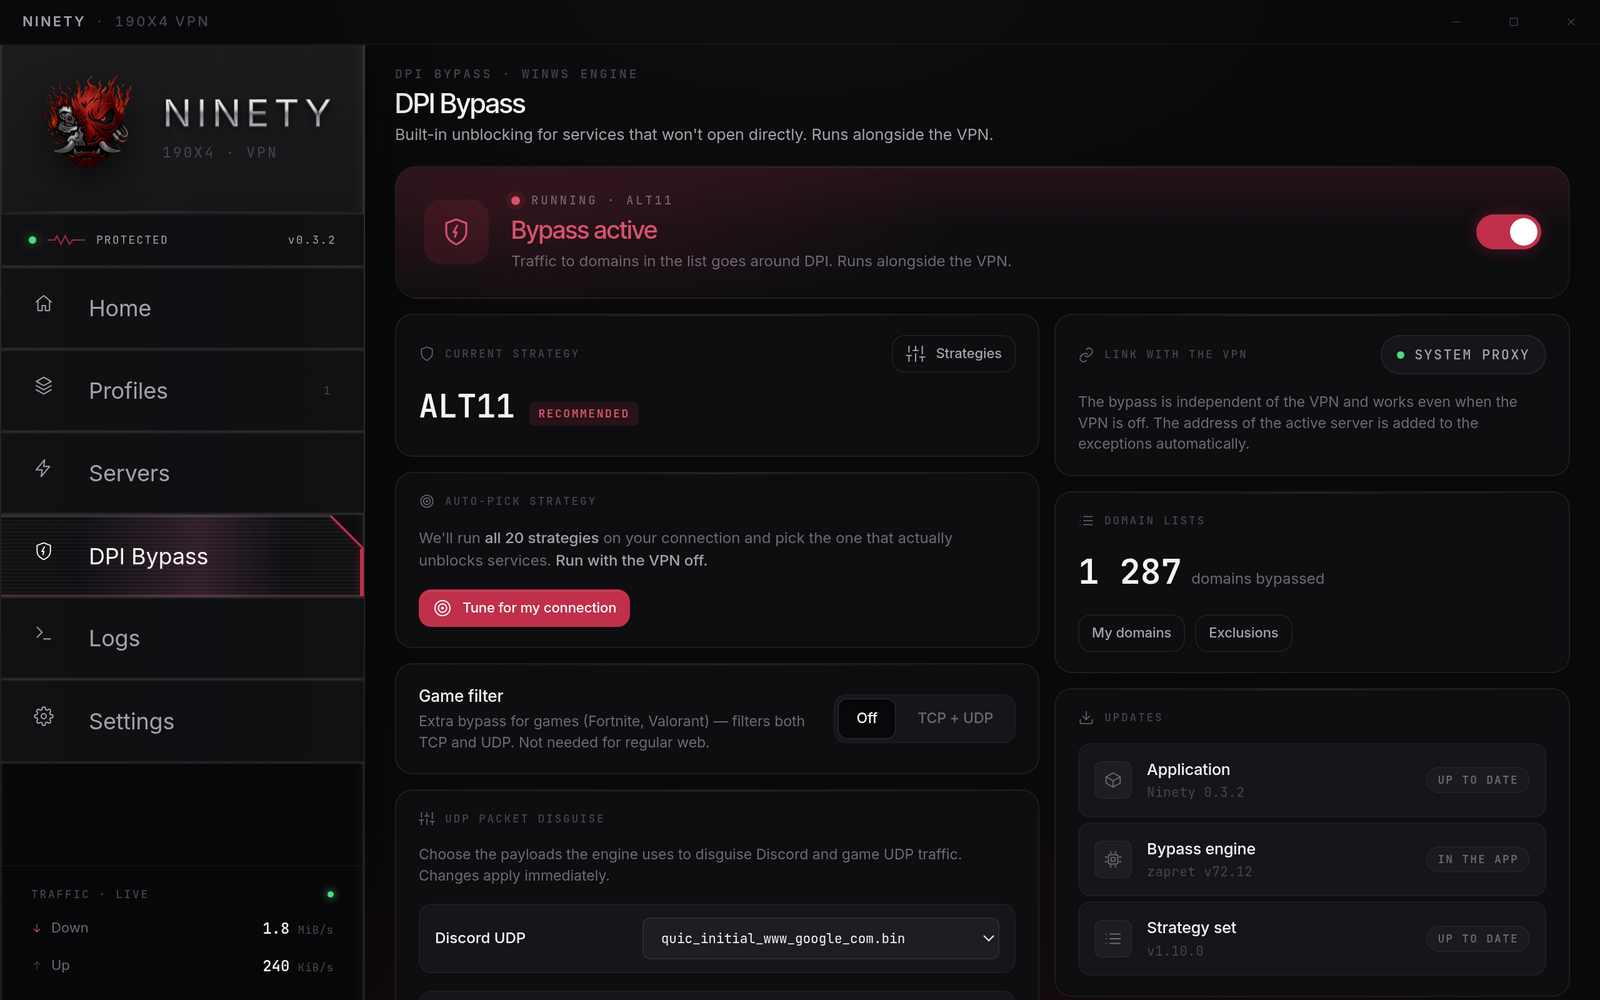
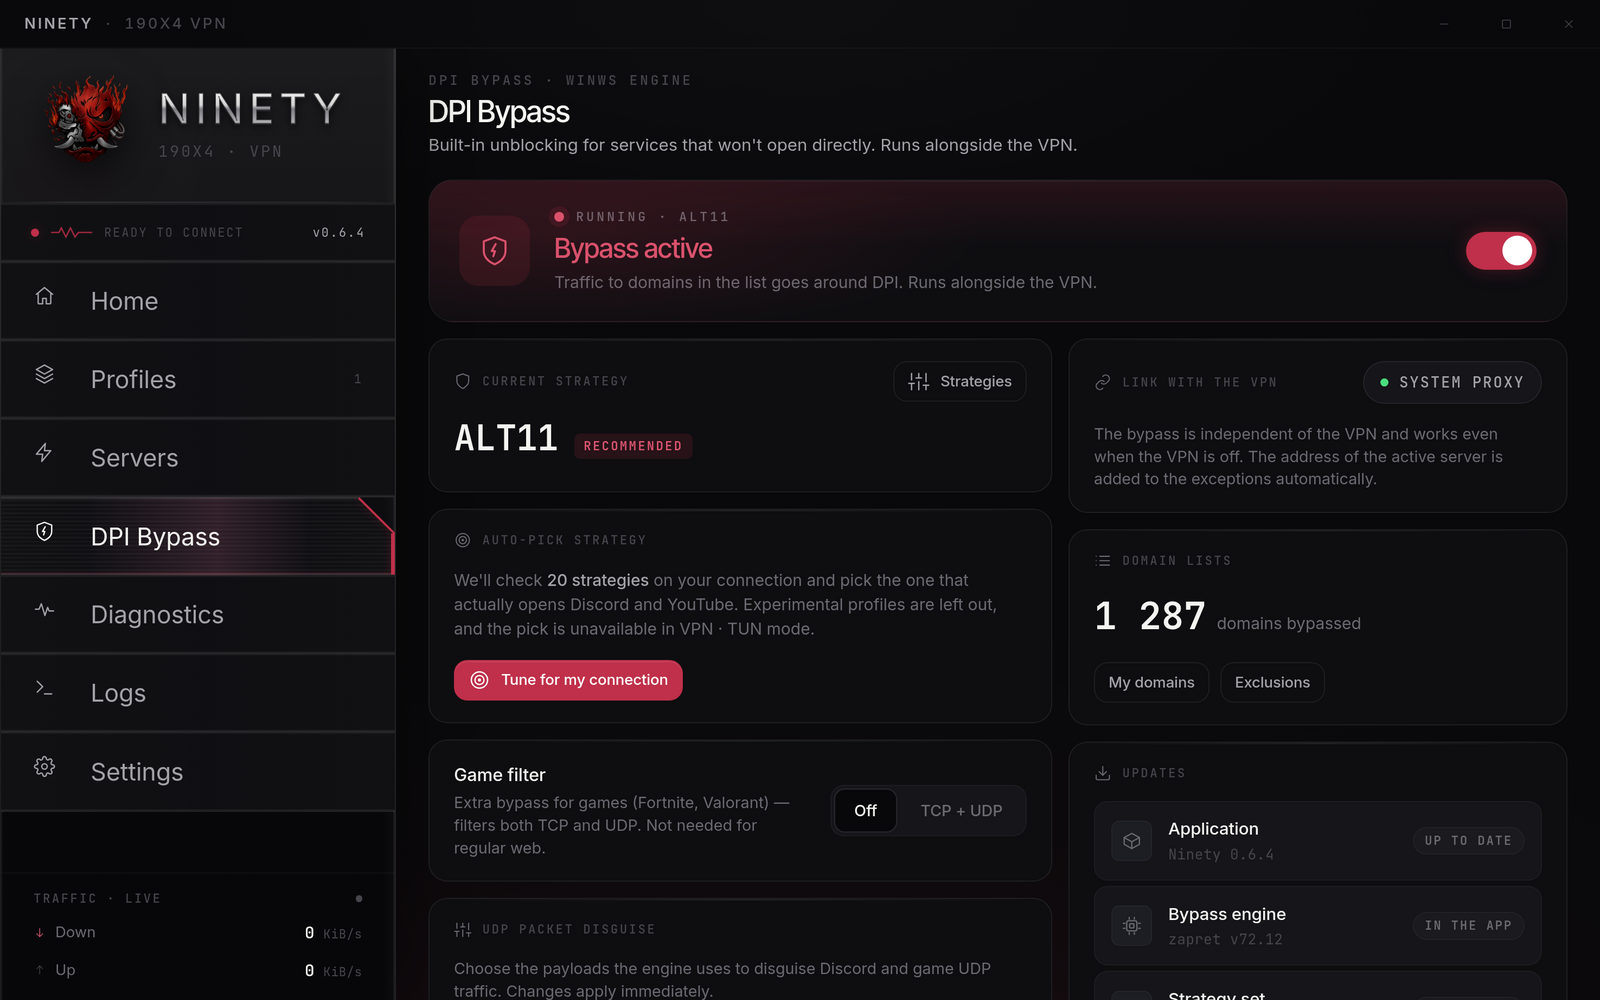
Refresh the README screenshots and cover Wi-Fi protection, diagnostics and feedback

diff --git a/README.ru.md b/README.ru.md
@@ -33,28 +33,30 @@ Ninety — нативный клиент для Windows, построенный 
 
 | Область | Возможности |
 | --- | --- |
-| **Режимы подключения** | Локальный прокси, системный прокси Windows и полноценный **VPN · TUN**. Запрос UAC появляется только тогда, когда TUN действительно нужны права администратора. При желании Ninety может запускаться с повышенными правами вместе с Windows. |
+| **Режимы подключения** | Локальный прокси, системный прокси Windows и полноценный **VPN · TUN**. Запрос UAC появляется только тогда, когда TUN действительно нужны права администратора. При желании Ninety может запускаться с повышенными правами вместе с Windows. В открытой Wi-Fi-сети, которой нет в списке доверенных, он умеет сам перейти в TUN и вернуть прежний режим, когда сеть снова безопасна. |
 | **Источники** | Импорт ссылок на подписки, отдельных конфигураций, готовых конфигов sing-box и Xray (JSON), `.toml`-профилей TrustTunnel и `.conf`-файлов WireGuard/AmneziaWG. Всё это же читается и как тело подписки по ссылке. Ссылку можно вставить из буфера, а поддержку deep links — включить отдельно. |
 | **Лимит устройств** | Подписки из панелей, которые считают устройства, могут отправлять идентификатор устройства — отдельный для каждой подписки. По умолчанию отправка выключена, идентификатор получается односторонним преобразованием машинного значения, а посмотреть, скопировать или сменить его можно в настройках. |
-| **Управление нодами** | Сетка серверов с флагами стран, живая проверка задержки, автоматический выбор, переключение из трея и отображение ноды, которая используется прямо сейчас. |
+| **Управление нодами** | Сетка серверов с флагами стран, живая проверка задержки, автоматический выбор, избранное, переключение из трея и отображение ноды, которая используется прямо сейчас. |
 | **Протоколы** | VLESS, VMess, Trojan, Shadowsocks, Hysteria2, Hysteria, TUIC, AnyTLS, SOCKS, NaiveProxy, TrustTunnel, WireGuard/AmneziaWG и WARP. |
 | **Мосты** | XHTTP работает через xray-core. NaiveProxy и TrustTunnel подключаются через локальные SOCKS-мосты, а центральным маршрутизатором остаётся sing-box. |
 | **Маршрутизация** | Обход локальной сети, региональные правила, собственные правила для доменов, IP-адресов и процессов. Есть списки для блокировки рекламы, вредоносных и фишинговых доменов, а также просмотр активных соединений. Правило может уводить трафик в конкретный сервер или в WARP, а не в общий туннель. |
 | **Диагностика** | Каждая цель проверяется дважды — напрямую и через туннель, — поэтому блокировка провайдера, троттлинг и отказ сервиса адресу сервера отличаются друг от друга. Экран снимает трассу до сервера по ICMP и TCP, проверяет DNS, IPv6 и внешний адрес на утечки и ведёт ленту инцидентов связи. Любой адрес можно проверить вручную, по шагам. |
-| **Качество соединения** | Проверяется реальная пропускная способность канала, а не один только ping. Ninety может повторить тест, сменить ноду, включить маскировку, заново просканировать WARP или предложить переподключение. |
+| **Качество соединения** | Проверяется реальная пропускная способность канала, а не один только ping. Ninety может повторить тест, сменить ноду, включить маскировку, перейти на сервер с другим транспортом, заново просканировать WARP или предложить переподключение. |
 | **DPI-инструменты** | Отдельный раздел с инструментами совместимости, обновлением стратегий и списков, удалением драйвера и автоматическим исключением адресов VPN-нод. |
 | **Приватность** | Строгий TUN закрепляет одну ноду, убирает прямые исключения и удерживает сессионную WFP-блокировку при падении туннеля. После подключения Ninety также умеет запускать бесплатный Mullvad Browser. |
-| **Интерфейс** | Управление из трея, обновления внутри приложения, восстановление сессии после обновления, темы, первоначальная настройка, 15 языков и RTL-вёрстка для فارسی / العربية. |
+| **Интерфейс** | Управление из трея, обновления внутри приложения, восстановление сессии после обновления, темы, первоначальная настройка, форма сообщения разработчику прямо с экрана «О программе», 15 языков и RTL-вёрстка для فارسی / العربية. |
 
 ## Скриншоты
 
 | Серверы | Профили |
 |------|---------|
 | ![Серверы](./docs/nodes.png) | ![Профили](./docs/profiles.png) |
-| **DPI-инструменты** | **Настройки** |
-| ![DPI-инструменты](./docs/dpi.png) | ![Настройки](./docs/settings.png) |
-| **Логи** | **Качество соединения** |
-| ![Логи](./docs/logs.png) | ![Качество соединения](./docs/quality.png) |
+| **Диагностика** | **Качество соединения** |
+| ![Диагностика](./docs/diagnose.png) | ![Качество соединения](./docs/quality.png) |
+| **DPI-инструменты** | **Маршрутизация** |
+| ![DPI-инструменты](./docs/dpi.png) | ![Маршрутизация](./docs/routing.png) |
+| **Логи** | **Настройки** |
+| ![Логи](./docs/logs.png) | ![Настройки](./docs/settings.png) |
 
 ## Поддерживаемые протоколы и транспорты
 
@@ -80,7 +82,7 @@ NaiveProxy и TrustTunnel запускаются через собственны
 ## Быстрый старт
 
 1. Откройте Ninety и нажмите **+**.
-2. Вставьте ссылку на подписку или отдельную конфигурацию: `vless://`, `vmess://`, `trojan://`, `hysteria2://`, `tuic://`, `naive+https://`, `tt://` и так далее.
+2. Вставьте ссылку на подписку или отдельную конфигурацию: `vless://`, `vmess://`, `trojan://`, `ss://`, `hysteria2://`, `tuic://`, `anytls://`, `naive+https://`, `tt://` и так далее.
 3. Выберите режим:
    - **Системный прокси** — используется по умолчанию, не требует прав администратора и подходит для браузеров и многих Windows-приложений.
    - **Прокси** — запускает локальный SOCKS/HTTP-прокси на `127.0.0.1`. Нужные приложения настраиваются вручную.

diff --git a/README.md b/README.md
@@ -33,28 +33,30 @@ When something breaks, you get diagnostics instead of guesswork.
 
 | Area | What Ninety does |
 | --- | --- |
-| **Connection modes** | Local proxy, Windows system proxy and full **VPN · TUN** mode. UAC appears only when TUN actually needs elevation; Ninety can also start elevated at login. |
+| **Connection modes** | Local proxy, Windows system proxy and full **VPN · TUN** mode. UAC appears only when TUN actually needs elevation; Ninety can also start elevated at login. On an open Wi-Fi outside your trusted list it can switch to TUN by itself and put the previous mode back once the network is safe again. |
 | **Sources** | Imports subscription URLs, individual proxy links, ready-made sing-box and Xray configs (JSON), TrustTunnel `.toml` endpoints and WireGuard/AmneziaWG `.conf` files. Any of these also work as the body of a subscription URL. Clipboard import is built in, while deep links remain optional. |
 | **Device limits** | Subscriptions from panels that count devices can send a per-subscription device identifier. The switch is off by default, the identifier is derived one way from a machine value, and it is shown, copied or changed in Settings. |
-| **Node control** | Server grid with country flags, live delay checks, automatic selection, tray switching and tracking of the node currently used by the connection. |
+| **Node control** | Server grid with country flags, live delay checks, automatic selection, favourites, tray switching and tracking of the node currently used by the connection. |
 | **Protocols** | VLESS, VMess, Trojan, Shadowsocks, Hysteria2, Hysteria, TUIC, AnyTLS, SOCKS, NaiveProxy, TrustTunnel, WireGuard/AmneziaWG and WARP. |
 | **Bridges** | XHTTP runs through xray-core. NaiveProxy and TrustTunnel use local SOCKS sidecars, with sing-box remaining the central router. |
 | **Routing** | LAN bypass, regional routing, custom rules for domains, IP addresses and processes, plus ad, malware and phishing rule sets. A rule can send its traffic through a specific server or through WARP instead of the shared tunnel. Active connections can be inspected from the app. |
 | **Diagnostics** | Every target is probed twice — directly and through the tunnel — so blocking, throttling and services that refuse the server address are told apart. The screen also traces the path to the server on ICMP and TCP, checks DNS, IPv6 and the external address for leaks, and keeps a timeline of connection incidents. Any address can be checked by hand, step by step. |
-| **Quality engine** | Measures real throughput instead of treating ping as the whole story. It can re-test the channel, change nodes, apply masking, rescan WARP or recommend reconnecting. |
+| **Quality engine** | Measures real throughput instead of treating ping as the whole story. It can re-test the channel, change nodes, apply masking, move to a server on a different transport, rescan WARP or recommend reconnecting. |
 | **DPI tools** | A separate section for DPI compatibility tools, strategy and list updates, driver cleanup and automatic exclusions for VPN node addresses. |
 | **Privacy** | Strict TUN can pin one server, remove direct exceptions and hold a session-scoped WFP block if the tunnel dies. Ninety can also launch the free Mullvad Browser after connection. |
-| **Desktop UX** | Tray controls, in-app updates, session restore after an update, themes, onboarding, 15 languages and RTL layouts for فارسی / العربية. |
+| **Desktop UX** | Tray controls, in-app updates, session restore after an update, themes, onboarding, a message form that reaches the developer straight from the About screen, 15 languages and RTL layouts for فارسی / العربية. |
 
 ## Screenshots
 
 | Servers | Profiles |
 |------|---------|
 | ![Servers](./docs/nodes.png) | ![Profiles](./docs/profiles.png) |
-| **DPI tools** | **Settings** |
-| ![DPI tools](./docs/dpi.png) | ![Settings](./docs/settings.png) |
-| **Logs** | **Channel quality** |
-| ![Logs](./docs/logs.png) | ![Channel quality](./docs/quality.png) |
+| **Diagnostics** | **Channel quality** |
+| ![Diagnostics](./docs/diagnose.png) | ![Channel quality](./docs/quality.png) |
+| **DPI tools** | **Routing** |
+| ![DPI tools](./docs/dpi.png) | ![Routing](./docs/routing.png) |
+| **Logs** | **Settings** |
+| ![Logs](./docs/logs.png) | ![Settings](./docs/settings.png) |
 
 ## Supported protocols and transports
 
@@ -78,7 +80,7 @@ Updates are downloaded from inside the app. When a VPN connection is already act
 ## Quick start
 
 1. Open Ninety and press **+**.
-2. Paste a subscription URL or an individual config link such as `vless://`, `vmess://`, `trojan://`, `hysteria2://`, `tuic://`, `naive+https://` or `tt://`.
+2. Paste a subscription URL or an individual config link such as `vless://`, `vmess://`, `trojan://`, `ss://`, `hysteria2://`, `tuic://`, `anytls://`, `naive+https://` or `tt://`.
 3. Choose a connection mode:
    - **System proxy** — the default option. It does not require administrator rights and works with browsers and many desktop applications.
    - **Proxy** — starts a local SOCKS/HTTP proxy on `127.0.0.1`. Applications must be configured manually.
